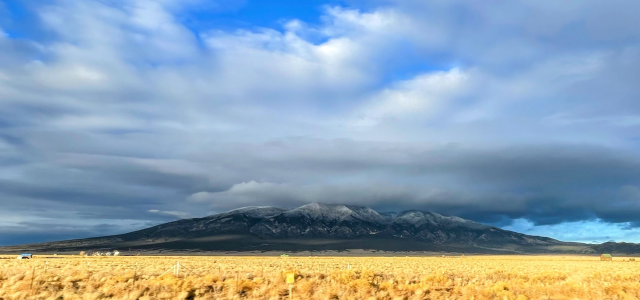
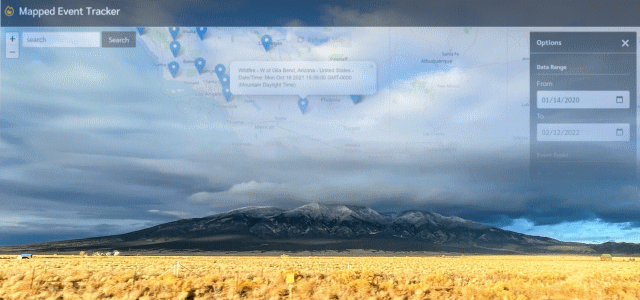
updating pictures and content

Changed region(s): [[0.0, 0.0, 1.0, 0.51]]

diff --git a/index.html b/index.html
@@ -26,7 +26,7 @@
                     <a class="borderunderline" href="#ContactMe">Contact Me</a>
                 </li>
                 <li>
-                    <a class="borderunderline" href="#">Resume</a>
+                    <a class="borderunderline" href="./assets/files/MJ-resume.pdf">Resume</a>
                 </li>
             </ul>
         </nav>
@@ -71,36 +71,36 @@
                     <a href="https://www.google.com" class="WorkItemLink" target="_blank">
                     <img class="work-img" src="./assets/images/main-project.png" alt="moutain and clouds">
                     </a>
-                    <summary class="work-summary-top">Mock Data</summary>
-                    <summary class="work-summary-bottom">Agriculture Tracking</summary>
+                    <summary class="work-summary-top">DU Project #1</summary>
+                    <summary class="work-summary-bottom">Natural Event Tracker Map</summary>
                 </li>
                 <li class="SecWorkItem">
                     <a href="https://www.google.com" target="_blank">
                     <img class="work-img" src="./assets/images/project-2.png" alt="gas mileage">
                     </a>
-                    <summary class="work-summary-top">Mock Data</summary>
-                    <summary class="work-summary-bottom">Data Analytics</summary>
+                    <summary class="work-summary-top">Password Generator</summary>
+                    <summary class="work-summary-bottom">DU Homework</summary>
                 </li>
                 <li class="SecWorkItem">
                     <a href="https://www.google.com" target="_blank">
                     <img class="work-img" src="./assets/images/project-3.png" alt="off road race car">
                     </a>
-                    <summary class="work-summary-top">Mock Data</summary>
-                    <summary class="work-summary-bottom">Race Logistics</summary>
+                    <summary class="work-summary-top">Coding Quiz</summary>
+                    <summary class="work-summary-bottom">DU Homework</summary>
                 </li>
                 <li class="SecWorkItem">
                     <a href="https://www.google.com" target="_blank">
                     <img class="work-img" src="./assets/images/project-4.png" alt="red salt room with blue L.E.D. lights">
                     </a>
-                    <summary class="work-summary-top">Mock Data</summary>
-                    <summary class="work-summary-bottom">Controls Automation</summary>
+                    <summary class="work-summary-top">Day Scheduler</summary>
+                    <summary class="work-summary-bottom">DU Homework</summary>
                 </li>
                 <li class="SecWorkItem">
                     <a href="https://www.google.com" target="_blank">
                     <img class="work-img" src="./assets/images/project-5.png" alt="sailboat in sunset">
                     </a>
-                    <summary class="work-summary-top">Mock Data</summary>
-                    <summary class="work-summary-bottom">Reservation System</summary>
+                    <summary class="work-summary-top">Weather Dashboard</summary>
+                    <summary class="work-summary-bottom">DU Homework</summary>
                 </li>
             </ul>
         <!-- </figure> -->
@@ -124,11 +124,11 @@
                 </li>
                 <li>
                     <img src="./assets/images/github.png" alt="github logo">
-                    <a href="https://github.com">GitHub</a>
+                    <a href="https://github.com/GittinIt6" target="_blank">GitHub</a>
                 </li>
                 <li>
                     <img src="./assets/images/linkedin.png" alt="linkedin logo">
-                    <a href="https://www.linkedin.com">LinkedIn</a>
+                    <a href="https://www.linkedin.com" target="_blank">LinkedIn</a>
                 </li>
             </ul>
         </section>

diff --git a/assets/css/style.css b/assets/css/style.css
@@ -213,7 +213,7 @@ main section article p{
 .work-summary-bottom{
     position:absolute; 
     left: 0px;
-    width: 150px;
+    width: 180px;
     background-color: var(--turquish);
     color: black;
     padding-left: 10px;
@@ -262,8 +262,18 @@ footer section ul li{
 /* reducing size of work items and their titles as they wrap into columns */
 /* aligning contact info into column */
 @media screen and (max-width: 520px){
+    header nav ul{
+        min-width: 358px; 
+    }
+
     header nav ul li{
         padding: 15px 5px;
+    }
+    header h1{
+        margin: 50px 0px 0px 0px;
+        padding: 5px 2px 5px 0px;
+        height: 15px;
+        font-size: 20px;
     }
     header aside{
         margin:15px 0px;
@@ -291,11 +301,11 @@ footer section ul li{
     }
     .work-summary-top,
     .work-summary-bottom{
-        width: 100px;
+        width: 120px;
         padding-left: 10px;
     }
     .work-summary-top{
-        font-size: 16px;
+        font-size: 12px;
     }
     .work-summary-bottom{
         font-size: 10px;

diff --git a/README.md b/README.md
@@ -1,12 +1,12 @@
-# DU-HW2-Portfolio
+# DU-Updated-Portfolio
 
-DU Coding Bootcamp Homework 2: Portfolio
+DU Coding Bootcamp: Portfolio
 
 # Website
 
 This is a website showcasing **Michael J.** experience and work.
 
-Public Website Address: https://gittinit6.github.io/DU-HW2-Portfolio/
+Public Website Address: https://gittinit6.github.io/DU-Updated-Portfolio/
 
 ## Purpose
 
@@ -32,6 +32,8 @@ Root Directory
     │
     └─── css (folder)
     │
+    └─── files (folder)
+    │
     └─── images (folder)
 ```
 >**CSS**: This site uses a single CSS file "style.css"
@@ -42,4 +44,4 @@ The following image shows a screenshot of the website homepage:
 
 ## Revision History 
 
-1. This website was created in January 2022 as part of a bootcamp assignment. It was created from scratch using HTML5 Semantic Elements, a responsive design using flexboxes and mediat queries. Readme was created at this time along with publishing to a GitHub Repository.
+1. This website was created in January 2022 as part of a bootcamp assignment, then updated in February 2023 as part of the same bootcamp class. It was created from scratch using HTML5 Semantic Elements, a responsive design using flexboxes and mediat queries. Readme was created at this time along with publishing to a GitHub Repository.
